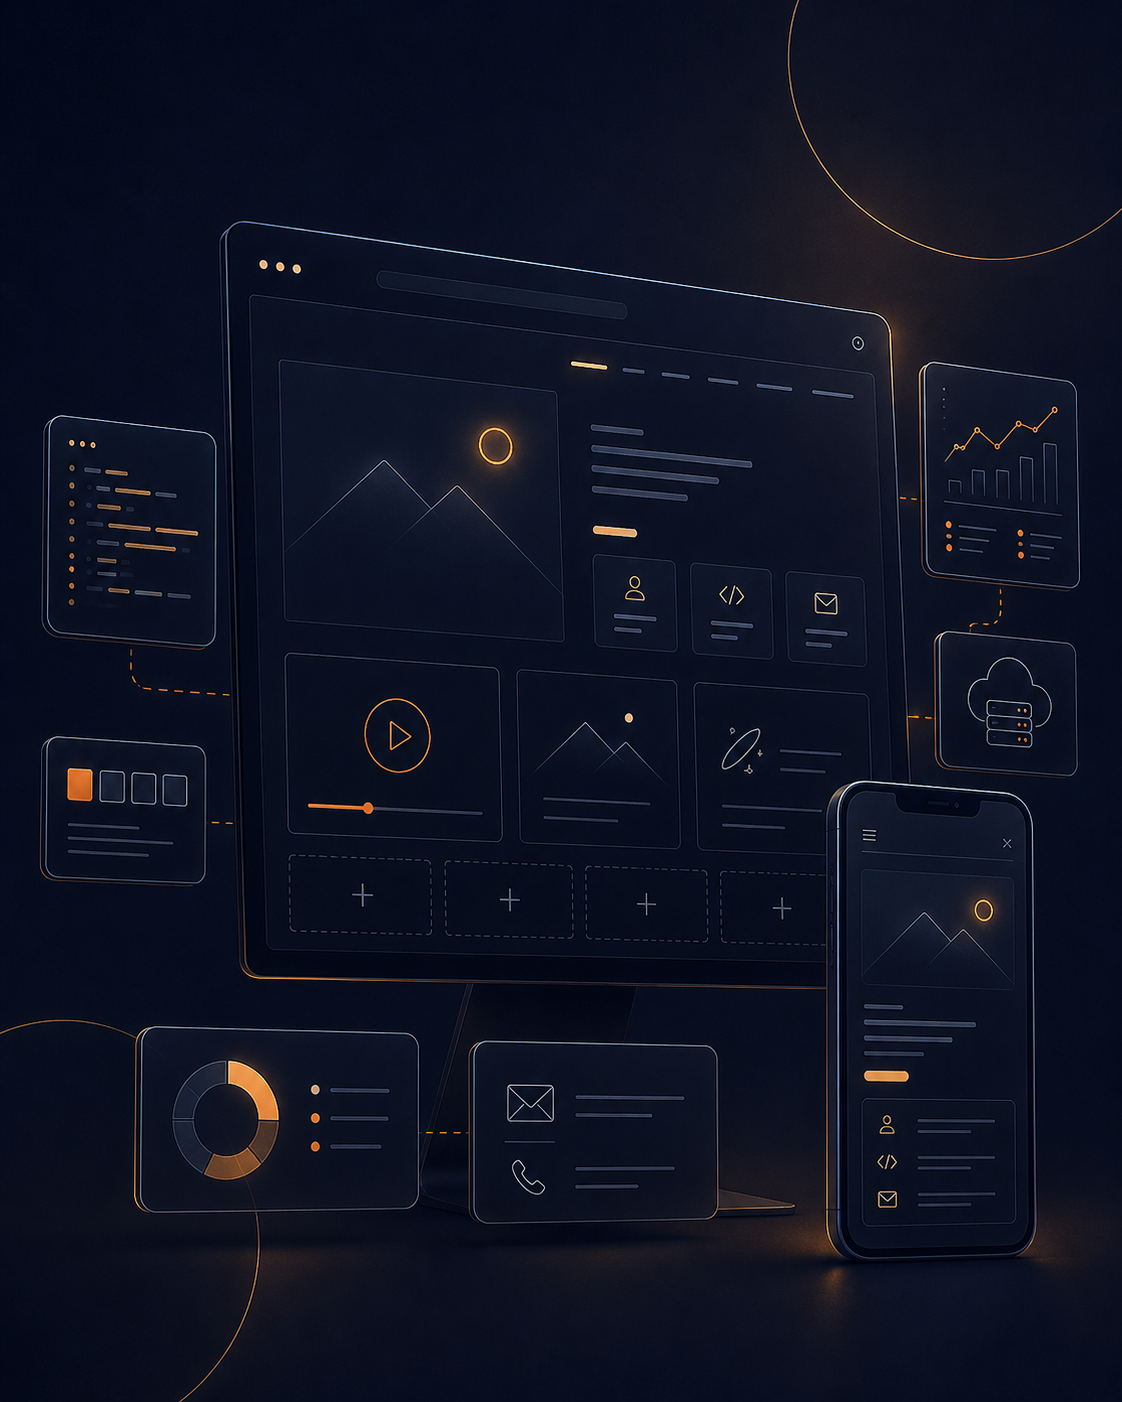
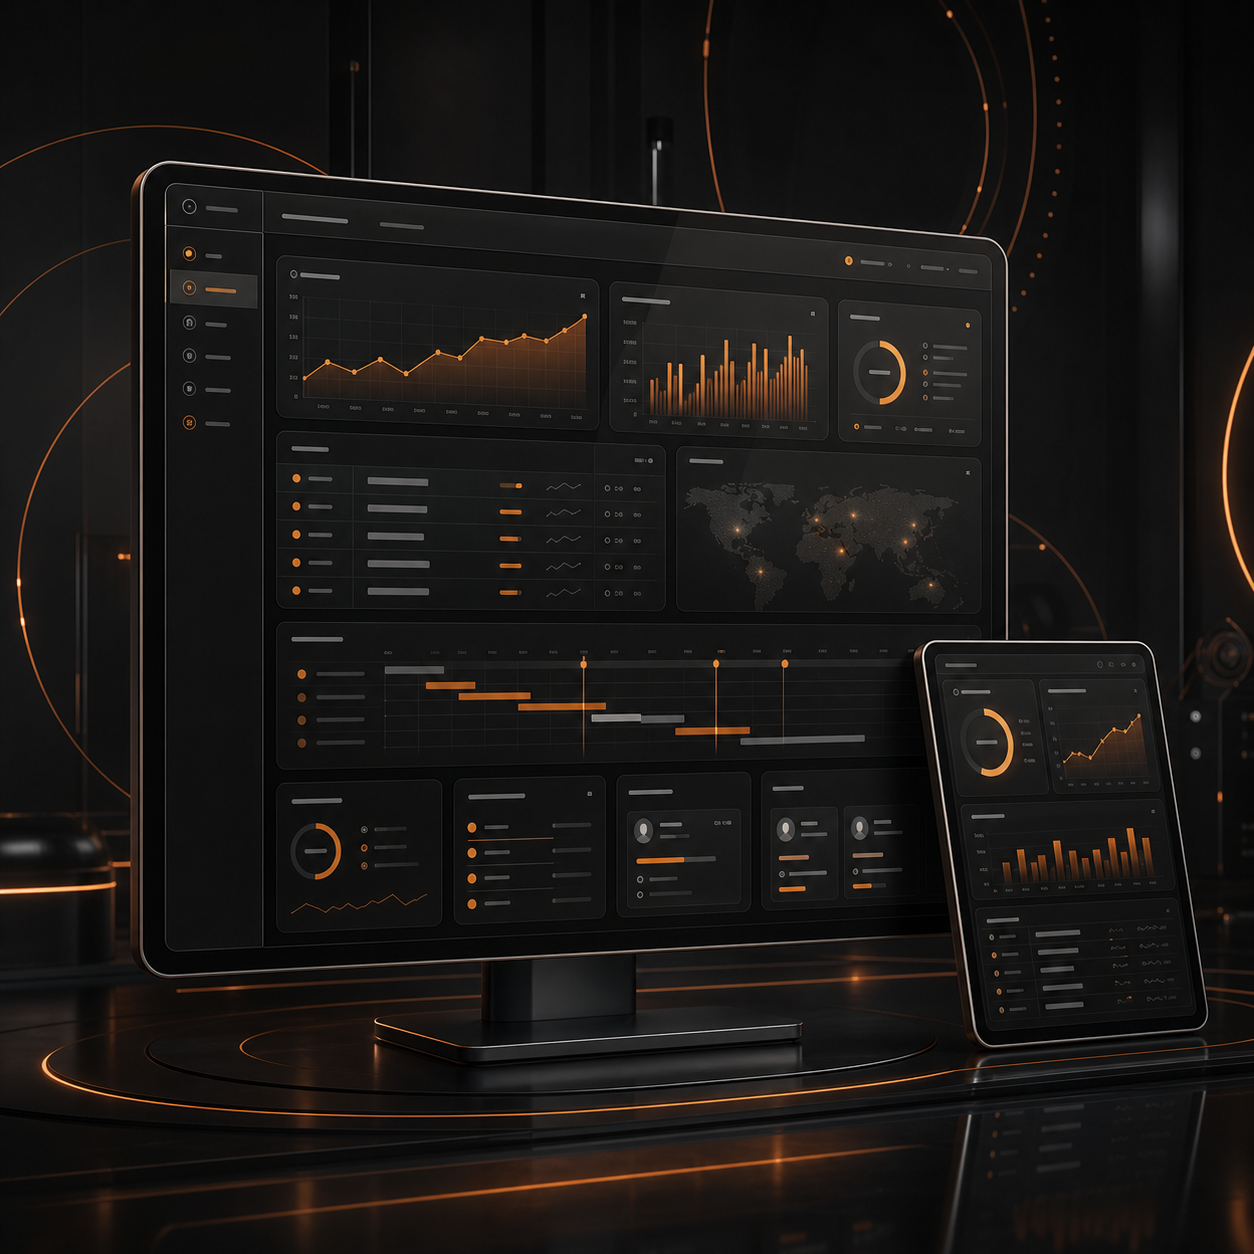
Подготовил релиз портфолио v1.3.3
Обновил W3Promo-визуал, убрал Proof из ключевых кейсов, уточнил подписи контекста и довел карточки артефактов и GitHub до прозрачного вида с тематичной обводкой. Обновил README, CHANGELOG и версию проекта перед деплоем.

diff --git a/src/styles/global.css b/src/styles/global.css
@@ -3078,18 +3078,6 @@ body.figma-remake::before {
   filter: brightness(1.25) saturate(0.94) contrast(1.04);
 }
 
-.figma-project-card:nth-child(2) .figma-project-image::before {
-  content: "";
-  position: absolute;
-  inset: 0;
-  z-index: 1;
-  pointer-events: none;
-  background:
-    radial-gradient(circle at 52% 34%, rgba(9, 22, 45, 0.28), transparent 48%),
-    linear-gradient(180deg, rgba(2, 6, 16, 0.34), rgba(1, 4, 12, 0.48));
-  mix-blend-mode: multiply;
-}
-
 .figma-project-card:hover .figma-project-image img {
   transform: scale(1.035);
 }
@@ -3229,27 +3217,28 @@ body.figma-remake::before {
   align-content: start;
   min-height: 338px;
   padding: 16px 16px 24px;
-  border: 1px solid rgba(255, 255, 255, 0.12);
+  border: 1px solid rgba(255, 145, 66, 0.18);
   border-radius: 18px;
-  overflow: hidden;
-  background:
-    linear-gradient(180deg, rgba(255, 255, 255, 0.045), rgba(255, 255, 255, 0.012)),
-    #151515;
+  overflow: visible;
+  background: transparent;
+  box-shadow:
+    inset 0 0 0 1px rgba(255, 255, 255, 0.025),
+    0 20px 54px rgba(0, 0, 0, 0.12);
   color: var(--figma-ink);
   text-decoration: none;
   transition:
     transform 220ms ease,
     border-color 220ms ease,
-    background 220ms ease;
+    box-shadow 220ms ease;
 }
 
 .figma-artifact-card:hover,
 .figma-artifact-card:focus-visible {
   transform: translateY(-3px);
-  border-color: rgba(255, 145, 66, 0.58);
-  background:
-    linear-gradient(180deg, rgba(255, 145, 66, 0.08), rgba(255, 255, 255, 0.018)),
-    #151515;
+  border-color: rgba(255, 145, 66, 0.42);
+  box-shadow:
+    inset 0 0 0 1px rgba(255, 145, 66, 0.04),
+    0 24px 64px rgba(0, 0, 0, 0.16);
 }
 
 .figma-artifact-card:focus-visible {
@@ -3274,27 +3263,16 @@ body.figma-remake::before {
   position: relative;
   display: block;
   aspect-ratio: 4 / 3;
-  border-radius: 14px;
-  overflow: hidden;
-  border: 1px solid rgba(255, 145, 66, 0.18);
-  background:
-    linear-gradient(180deg, rgba(255, 255, 255, 0.055), rgba(255, 255, 255, 0.012)),
-    #121212;
-  box-shadow:
-    inset 0 1px 0 rgba(255, 255, 255, 0.12),
-    0 16px 42px rgba(0, 0, 0, 0.2);
+  margin: -10px -6px 0;
+  border-radius: 0;
+  overflow: visible;
+  border: 0;
+  background: transparent;
+  box-shadow: none;
 }
 
 .figma-artifact-visual::after {
-  content: "";
-  position: absolute;
-  inset: 0;
-  pointer-events: none;
-  background:
-    linear-gradient(180deg, rgba(255, 255, 255, 0.08), transparent 20%),
-    radial-gradient(circle at 70% 18%, rgba(255, 145, 66, 0.16), transparent 34%);
-  mix-blend-mode: screen;
-  opacity: 0.72;
+  content: none;
 }
 
 .figma-artifact-visual img {
@@ -3303,6 +3281,8 @@ body.figma-remake::before {
   height: 100%;
   object-fit: cover;
   filter: saturate(0.95) contrast(1.03);
+  -webkit-mask-image: radial-gradient(ellipse 70% 62% at center, #000 42%, rgba(0, 0, 0, 0.78) 62%, transparent 100%);
+  mask-image: radial-gradient(ellipse 70% 62% at center, #000 42%, rgba(0, 0, 0, 0.78) 62%, transparent 100%);
   transition: transform 420ms cubic-bezier(0.32, 0.72, 0, 1);
 }
 
@@ -3361,22 +3341,27 @@ body.figma-remake::before {
   gap: 16px;
   min-height: 324px;
   padding: 18px 18px 26px;
-  border: 1px solid rgba(255, 255, 255, 0.12);
+  border: 1px solid rgba(255, 145, 66, 0.18);
   border-radius: 18px;
-  background:
-    linear-gradient(145deg, rgba(255, 255, 255, 0.045), rgba(255, 255, 255, 0.01)),
-    #151515;
+  background: transparent;
+  box-shadow:
+    inset 0 0 0 1px rgba(255, 255, 255, 0.025),
+    0 20px 54px rgba(0, 0, 0, 0.12);
   color: var(--figma-ink);
   text-decoration: none;
   transition:
     transform 220ms ease,
-    border-color 220ms ease;
+    border-color 220ms ease,
+    box-shadow 220ms ease;
 }
 
 .figma-github-grid a:hover,
 .figma-github-grid a:focus-visible {
   transform: translateY(-3px);
-  border-color: rgba(255, 145, 66, 0.58);
+  border-color: rgba(255, 145, 66, 0.42);
+  box-shadow:
+    inset 0 0 0 1px rgba(255, 145, 66, 0.04),
+    0 24px 64px rgba(0, 0, 0, 0.16);
 }
 
 .figma-github-grid a:focus-visible {
@@ -3388,26 +3373,16 @@ body.figma-remake::before {
   position: relative;
   display: block;
   aspect-ratio: 16 / 9;
-  margin-bottom: 4px;
-  border: 1px solid rgba(255, 145, 66, 0.2);
-  border-radius: 14px;
-  overflow: hidden;
-  background:
-    linear-gradient(180deg, rgba(255, 255, 255, 0.055), rgba(255, 255, 255, 0.012)),
-    #121212;
-  box-shadow: inset 0 1px 0 rgba(255, 255, 255, 0.12);
+  margin: -8px -2px 4px;
+  border: 0;
+  border-radius: 0;
+  overflow: visible;
+  background: transparent;
+  box-shadow: none;
 }
 
 .figma-github-image::after {
-  content: "";
-  position: absolute;
-  inset: 0;
-  pointer-events: none;
-  background:
-    linear-gradient(180deg, rgba(2, 4, 8, 0.04), rgba(0, 0, 0, 0.14) 76%, rgba(0, 0, 0, 0.24)),
-    radial-gradient(circle at 76% 16%, rgba(255, 145, 66, 0.1), transparent 34%),
-    radial-gradient(circle at 50% 58%, transparent 42%, rgba(0, 0, 0, 0.18) 100%);
-  opacity: 0.76;
+  content: none;
 }
 
 .figma-github-image img {
@@ -3416,6 +3391,8 @@ body.figma-remake::before {
   height: 100%;
   object-fit: cover;
   filter: brightness(0.9) saturate(0.9) contrast(1.05);
+  -webkit-mask-image: radial-gradient(ellipse 72% 62% at center, #000 44%, rgba(0, 0, 0, 0.78) 64%, transparent 100%);
+  mask-image: radial-gradient(ellipse 72% 62% at center, #000 44%, rgba(0, 0, 0, 0.78) 64%, transparent 100%);
   transition: transform 420ms cubic-bezier(0.32, 0.72, 0, 1);
 }
 

diff --git a/README.md b/README.md
@@ -6,10 +6,14 @@
 
 ## Текущая версия
 
-Актуальный релиз: `v1.3.2`.
+Актуальный релиз: `v1.3.3`.
 
 Что вошло в релиз:
 
+- W3Promo получил новый SEO/analytics-визуал в едином dark/orange стиле сайта;
+- из карточек ключевых кейсов убран технический `Proof`, чтобы блок выглядел чище;
+- подписи контекста кейсов уточнены: `Product / Fashion-tech`, `Digital`, `GameDev`;
+- карточки артефактов и GitHub получили прозрачный фон, растворение изображений в фон сайта и тонкую тематичную обводку;
 - обновлена карточка Pixel Runner: вместо абстрактного превью используется dark game-визуал с оранжевым акцентом;
 - W3Promo визуально выровнен с соседними кейсами: фон переведен в сине-черный тон, яркость выставлена на `brightness(1.25)`;
 - CTA диплома сделана почти прозрачной, чтобы не спорить с основным визуальным ритмом;

diff --git a/CHANGELOG.md b/CHANGELOG.md
@@ -4,6 +4,25 @@
 
 Формат близок к [Keep a Changelog](https://keepachangelog.com/ru/1.1.0/). Версии идут по смыслу изменений.
 
+## [1.3.3] - 2026-08-17
+
+### Добавлено
+
+- Новый W3Promo-визуал: SEO/analytics-дисплей web-студии в общем dark/orange стиле сайта.
+
+### Изменено
+
+- Из карточек ключевых кейсов удалена строка `Proof`.
+- Подписи контекста кейсов уточнены: `Product / Fashion-tech`, `Digital`, `GameDev`.
+- Карточки «Проектные артефакты» и GitHub-проектов получили прозрачный фон, растворение изображений в фон сайта и тонкую тематичную обводку.
+- README и версия проекта обновлены до `v1.3.3`.
+
+### Проверено
+
+- `astro-check`: 0 ошибок, 0 предупреждений, 0 подсказок.
+- `astro build`: успешно.
+- Browser smoke на desktop и mobile: горизонтального overflow нет, изображения остаются без собственных рамок.
+
 ## [1.3.2] - 2026-08-16
 
 ### Добавлено
